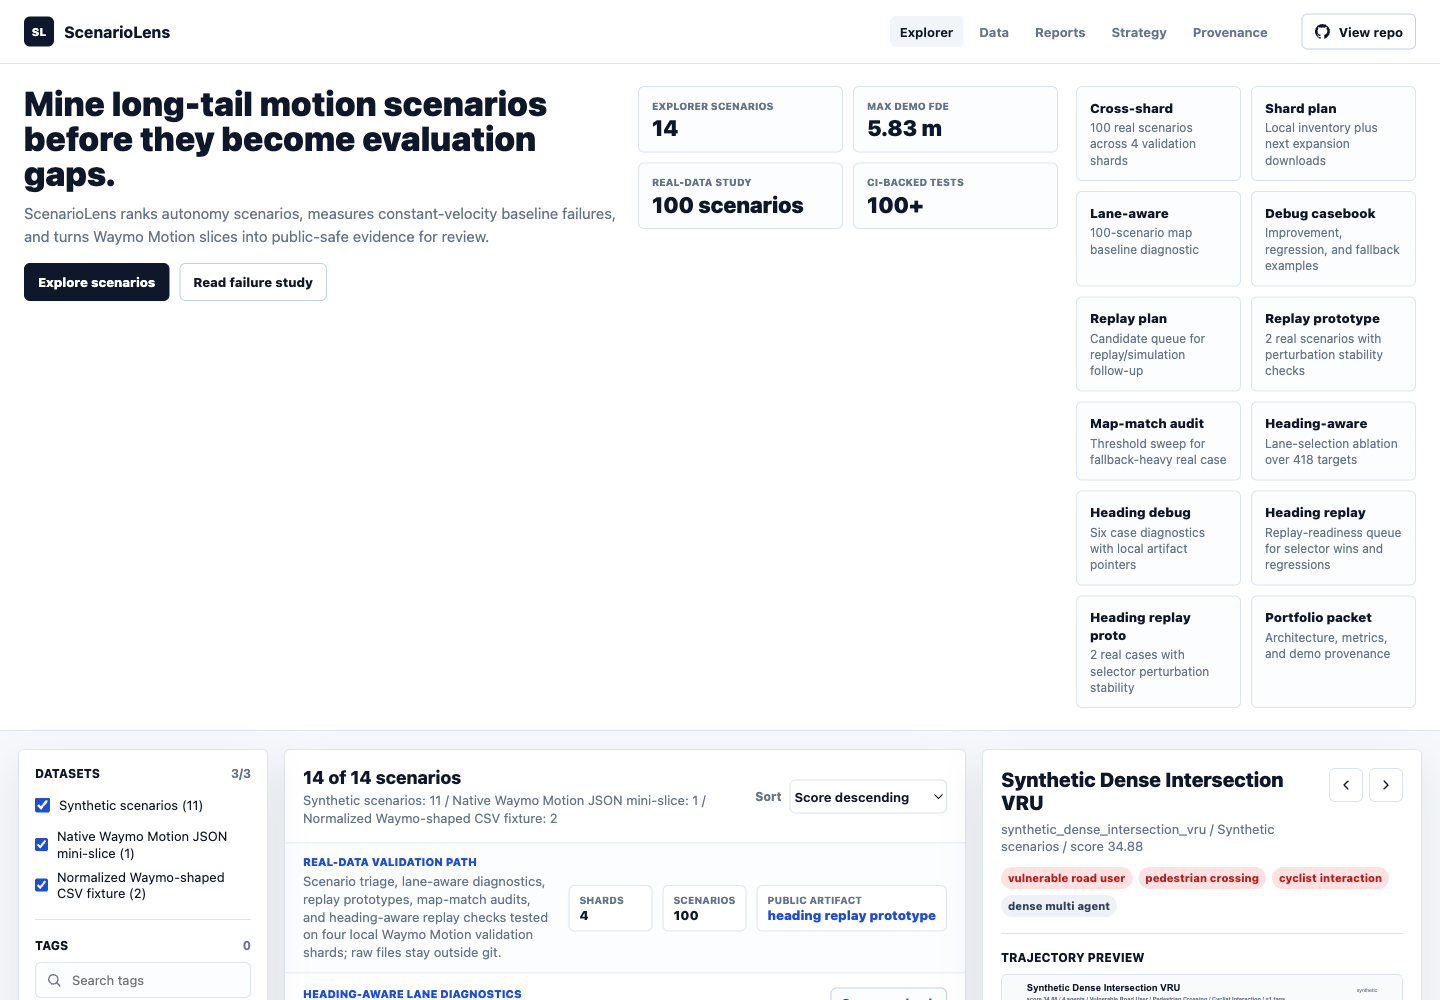
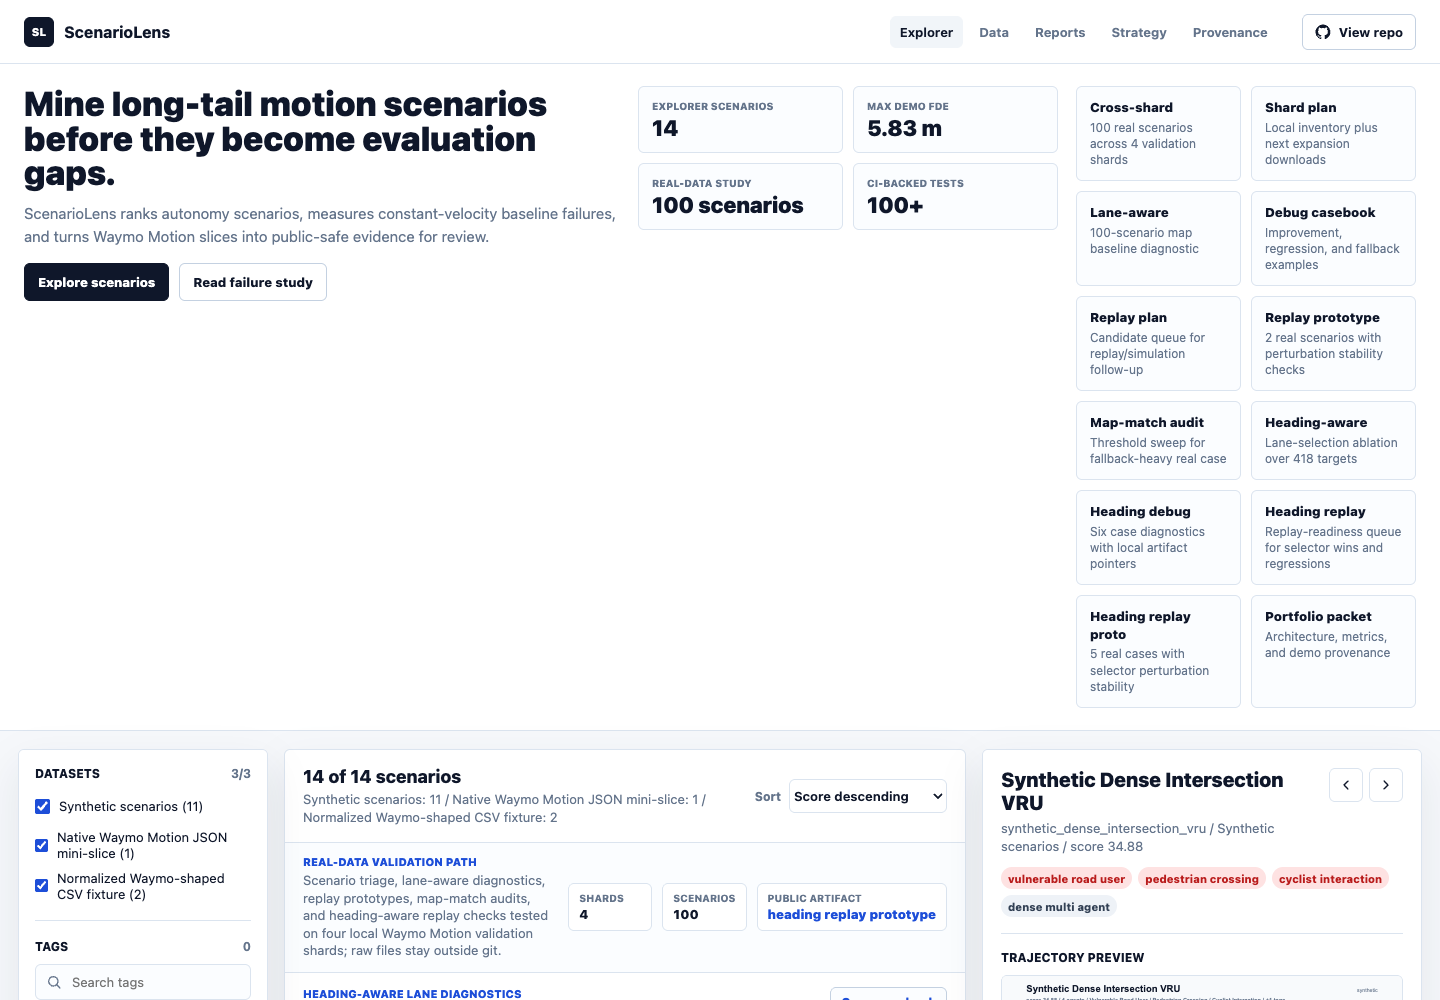
Sync expanded ScenarioLens heading replay route

diff --git a/public/scenariolens/index.html b/public/scenariolens/index.html
@@ -103,7 +103,7 @@
           </a>
           <a href="https://github.com/ethanvillalovoz/scenariolens/blob/main/docs/reports/waymo_heading_aware_replay_prototype.md">
             <span>Heading replay proto</span>
-            2 real cases with selector perturbation stability
+            5 real cases with selector perturbation stability
           </a>
           <a href="https://github.com/ethanvillalovoz/scenariolens/blob/main/docs/reports/portfolio_report.md">
             <span>Portfolio packet</span>